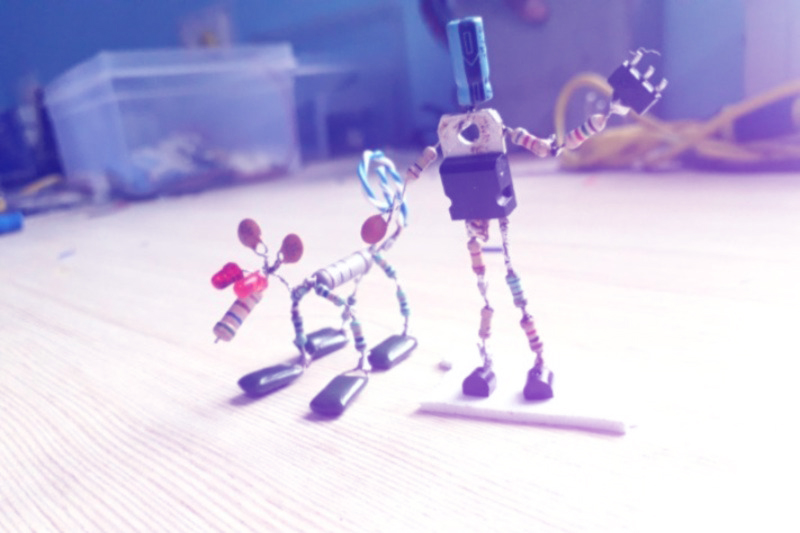
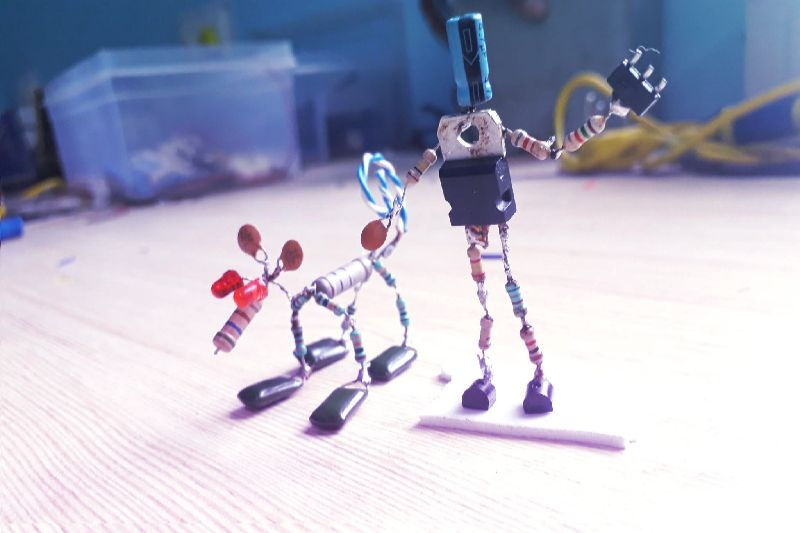
updates
turned of selection in the schedule section
updated carousel images
updated footer images

diff --git a/index.html b/index.html
@@ -122,26 +122,22 @@
             <section id="section-hero" class="fullwidthbanner-container" aria-label="section-slider" data-bgcolor="#222222">
                 <div id="slider-revolution">
                     <ul>
-                        <!-- <li data-transition="Slide-Overlays-To-Bottom" data-slotamount="10" data-masterspeed="200" data-thumb=""> -->
                         <li data-transition="random-premium" data-slotamount="10" data-masterspeed="200" data-thumb="">
                             <!--  BACKGROUND IMAGE -->
-							<img alt="" class="rev-slidebg" data-bgparallax="0" src="images-event/slider/001.png">
+							<img alt="" class="rev-slidebg" data-bgparallax="0" src="images-event/slider/001.jpg">
 							<!-- <video alt="" class="rev-slidebg" data-bgparallax="0" src="images-event/video-1.mp4"> -->
                         </li>   
-						<!-- <li data-transition="Slide-Overlays-To-Bottom" data-slotamount="10" data-masterspeed="200" data-thumb=""></li> -->
 						<li data-transition="random-premium" data-slotamount="10" data-masterspeed="200" data-thumb="">
                             <!--  BACKGROUND IMAGE -->
-							<img alt="" class="rev-slidebg" data-bgparallax="0" src="images-event/slider/02.jpg">
+							<img alt="" class="rev-slidebg" data-bgparallax="0" src="images-event/slider/002.jpg">
                         </li>
-                        <!-- <li data-transition="Slide-Overlays-To-Bottom" data-slotamount="10" data-masterspeed="200" data-thumb=""> -->
 						<li data-transition="random-premium" data-slotamount="10" data-masterspeed="200" data-thumb="">
                             <!--  BACKGROUND IMAGE -->
-							<img alt="" class="rev-slidebg" data-bgparallax="0" src="images-event/slider/003.png">
+							<img alt="" class="rev-slidebg" data-bgparallax="0" src="images-event/slider/003.jpg">
                         </li>
-                        <!-- <li data-transition="Slide-Overlays-To-Bottom" data-slotamount="10" data-masterspeed="200" data-thumb=""> -->
 						<li data-transition="random-premium" data-slotamount="10" data-masterspeed="200" data-thumb="">
                             <!--  BACKGROUND IMAGE -->
-							<img alt="" class="rev-slidebg" data-bgparallax="0" src="images-event/slider/04.jpg">
+							<img alt="" class="rev-slidebg" data-bgparallax="0" src="images-event/slider/004.jpg">
                         </li>
 
                     </ul>

diff --git a/css/style.css b/css/style.css
@@ -71,7 +71,8 @@ font-size: 72px;
 	-o-filter: blur(5px);
 	-ms-filter: blur(5px);
 	filter: blur(5px);  
-	
+	user-select: none;
+
   }
 
 .flextesting{
